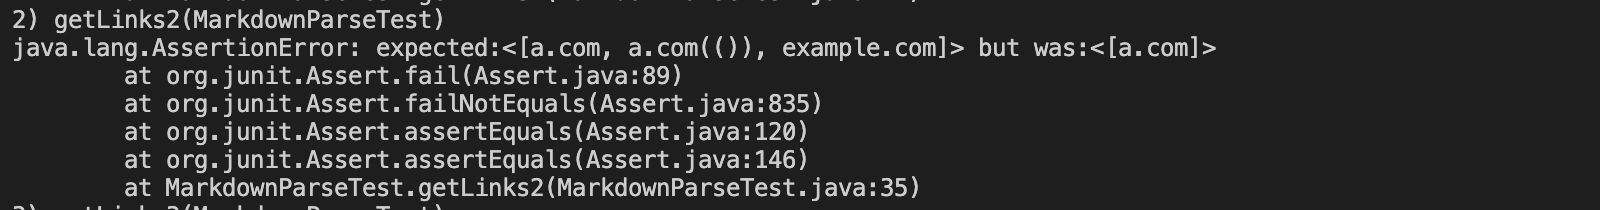
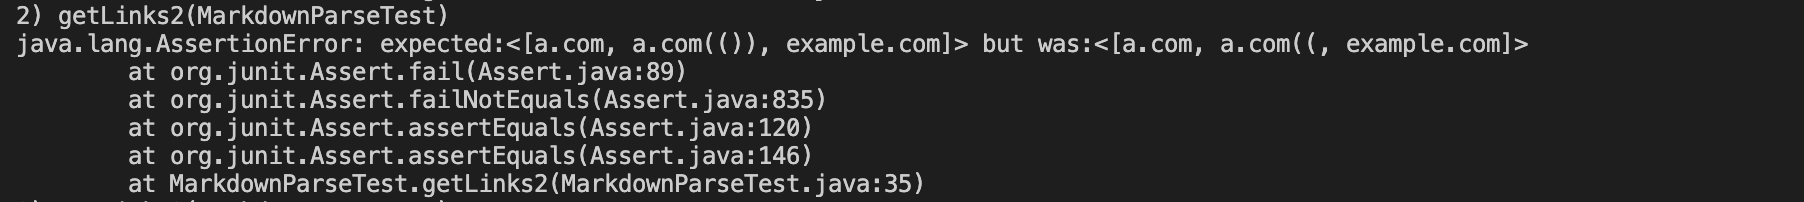
new change

diff --git a/lab-report-4-week-8.md b/lab-report-4-week-8.md
@@ -12,7 +12,7 @@ the Snippet1 should has the result as [`google.com,google.com, ucsd.edu]
 the Snippet2 should has the result as [a.com,a.com(()), example.com]
 ![Image](preview2.png)
 
-the Snippet3 should has the result as [https://www.twitter.com, https://sites.google.com/eng.ucsd.edu/cse-15l-spring-2022/schedule, https://cse.ucsd.edu/]
+the Snippet3 should has the result as [https://sites.google.com/eng.ucsd.edu/cse-15l-spring-2022/schedule]
 ![Image](preview3.png)
 
 
@@ -28,10 +28,30 @@ The screenshot below shows the test for Snippet1,2,3 in the reviewed MarkdownTes
 1).The screenshot below shows the test outputs of Snippet1.md by my own implemention of MarkdownParse.java.
 
 ![Image](ownoutput1.png)
-From the result, the test for Snippet1 is failed. The actual result includes the "url.com" in the list besides other links. However, from the preview, we know that the "url.com" is an invalid link since the beginning of the this link is violated the correct link format in Markdown documents. This link begins with backtick instead of the bracket. My code does not verify that this link is an invalid link so it returns this link as well. I think the code change will small than 10 lines since we can just add an extra if statement to verify whether the beginning of the link format is correct so that the code can pass this test. 
+From the result, the test for Snippet1 is failed. The actual result includes the "url.com" in the list besides other links. However, from the preview, we know that the "url.com" is an invalid link since the beginning of the this link is violated the correct link format in Markdown documents. This link begins with backtick instead of the bracket. My code does not verify that this link is an invalid link so it returns this link as well. I think the code change will less than 10 lines since we can just add an extra if statement to verify whether the beginning of the link format is correct so that the code can pass this test. 
 
 2). The screenshot below shows the test outputs of Snippet2.md by my own implemention of MarkdownParse.java.
 ![Image](ownoutput2.png)
-From the result, the test for Snippet2 is also failed. The actual result only return the "a.com" link. 
+From the result, the test for Snippet2 is also failed. The actual result has the wrong output for the 
+"a.com(())" link, which returns the "a.com((" instead. The reason for this wrong output is because my code will automatically return the substring between the openParen and the first finded closedParen. Therefore the code think that the "a.com((" is correct since after "(" is the first closed finded ")". I think for the nested parentheses, my code change will less than 10 lines since it just needs to add additional if statement to verify whether after first closed bracket, the string has the next open bracket. If the string has next open bracket, then just return the substring between openParen and the final closedParen before the next open bracket. If the string does not nas next open bracket and reaches the end, then just return the substring between the openParen and the last closedParen.
+
+3). The screenshot below shows the test outputs of Snippet3.md by my own implemention of MarkdownParse.java.
+![Image](ownoutput3.png)
+From the result, the test for Snippet3 is also failed. The actual result runs into an infinite loop so that the terminal indicates "Out of Memory Error". The reason is that since Snippet3.md does not end with a valid link. This file ends with a string. Since in my code, the condition for while loop is that the currentIndex is less than the markdown file's length. So if the file does not ends with a link, then the currentIndex will never reach the length of the file, so the while loop will always be true and never stop to run in infinity. 
+I think the code change is less than 10 lines since we just need to change the condition of while loop to the currentIndex less than the last closedParen poisition. Therefore, if the file does not end with a link, it will not run into infinity.
+
+## 4.Test Output for reviewed repository and Explaning
+1).The screenshot below shows the test outputs of Snippet1.md by reviewed implemention of MarkdownParse.java.
+![Image](reviewoutput1.png)
+The test is failed. The actual result returns the "url.com" besides other three valid links. However, from the preview, we know that the "url.com" is not a valid link since it begins with "`" instead of "[". The code change will less than 10 since we just need to add a if statement to verify whether the beggining of the link is in correct format which starts with "[". This also means that the first openBracket should not have anything before it. If the first openBracket has something before it, then it is not a valid link.
+
+2). The screenshot below shows the test outputs of Snippet2.md by reviewed implemention of MarkdownParse.java.
+![Image](reviewoutput2.png)
+The test is failed. The actual does not return the "a.com" and also only returns part of the second link which is "a.com((" in the result list. The reason for the code does not return the "a.com" is that it contains a if statement and states that if there is "!" before the ccurrentIndex, then the code continue and currentIndex will change. This will cause problem when comes into the first link content, the "!" will return -1 since there is no "!" in Snippet2.md, and the openBracket's index is 0, so openBracket - 1 is equal to -1 so that this if condition is true, and the currentIndex will change to next openBracket and the first link content will not be return. ![Image](explain.png)
+The second link is incomplete in the actual output which has the same reason with  my own code. This review code also returns the link content between the openParen and the first finded closedParen, so it only returns the "a.com((" since the code thinks that the ")" is the final closedParen, it does not look through all the ")" after "a.com((". Therefore, the code change is also less than 10 lines. It just need to delete the if statement as I mentionded above and add a new additional if condition which is to verify whether the ")" is the final closedParen. If the ")" is before the next open Bracket or the file reaches the end, then the ")" is the final closedParen, and should return the link content bewteen the openParen and final closedParen.
+
+3).The screenshot below shows the test outputs of Snippet3.md by reviewed implemention of MarkdownParse.java.
+![Image](reviewoutput3.png)
+The test is failed. Besides the correct valid link content, the actual outpur also returns the invalid link content.  The reason is that the code does not know how to verify the validity of the correct format of the link. The logic in the code just to find the open and closed brackets pair at first, then it find the afterwards openParen and closedParen paris and return the link content between them. From Snippet2.md, we know that this reviewed code will not return the first link since it has the extra if statement as stated above, it will let the code continue and update the currentIndex. Tough the first link is invalid and the code does not return, but the code still has problem for can not verify the correct format of the link in markdown file. So I think the code change is less than 10 lines, we just need to add additional if statement to tell the code that the space between two brackets should not have additional new lines and break if it has. Another if statement is that for the situation of the link does not have closedParen, this is also easy to detect for writing if after the openParen, the space between next closedParen and the openParen has the openBracket or a newline, then break, should not return. 
 
 
